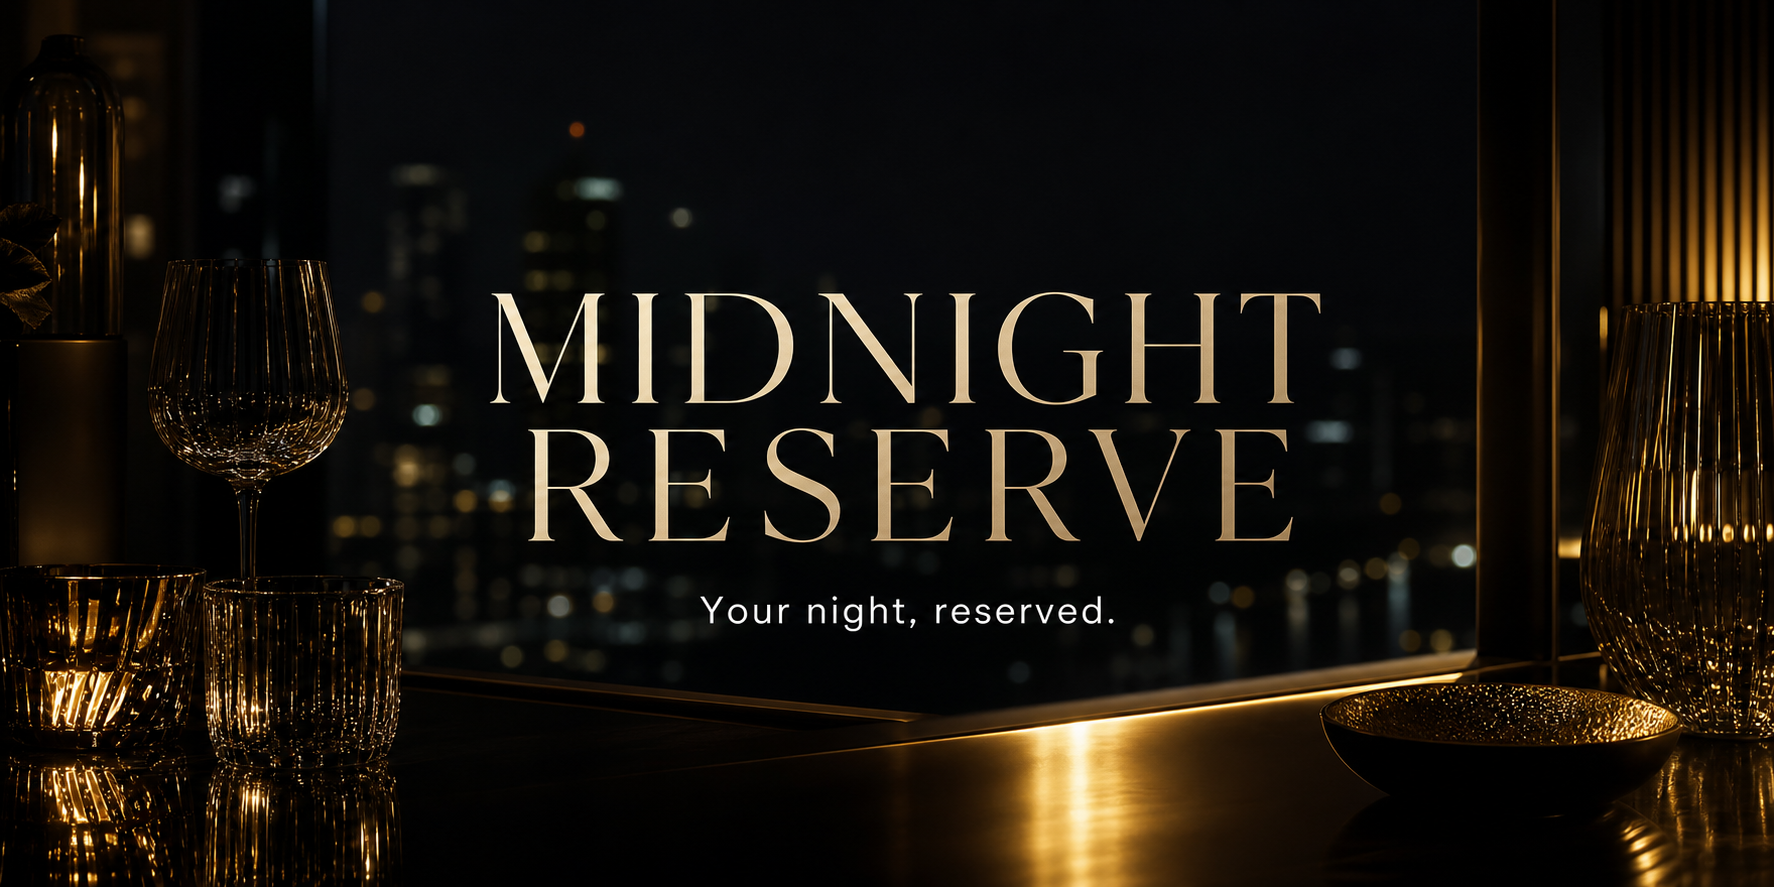
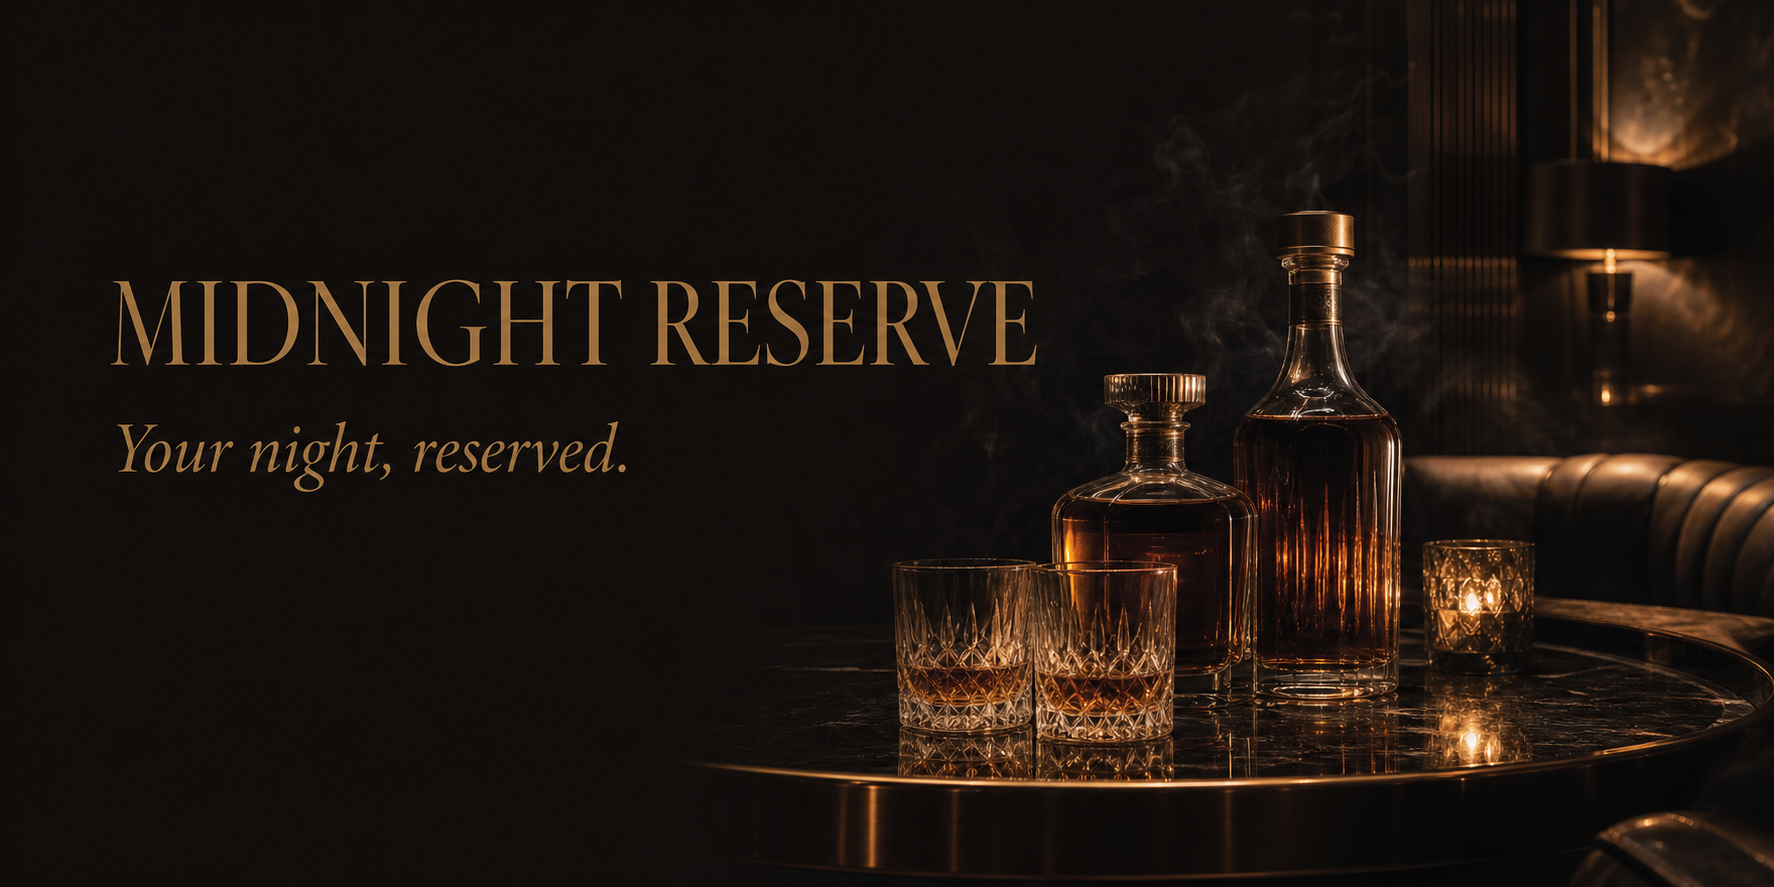
feat: refresh luxury guest experience

diff --git a/app/globals.css b/app/globals.css
@@ -156,3 +156,160 @@ input::placeholder, textarea::placeholder { color: #6f6b62; }
 @media (prefers-reduced-motion: reduce) {
   *, *::before, *::after { scroll-behavior: auto !important; transition-duration: .01ms !important; }
 }
+
+/* Midnight Reserve — cinematic guest experience */
+:root {
+  --ink: #f6f0e4;
+  --muted: #9c968d;
+  --gold: #c9a668;
+  --gold-soft: #e7c98e;
+  --night: #050606;
+  --panel: #0d0e0f;
+  --panel-2: #141516;
+  --line: rgba(220, 190, 132, .15);
+}
+
+body {
+  min-height: 100vh;
+  background:
+    radial-gradient(circle at 50% -8%, rgba(120, 84, 34, .22), transparent 30rem),
+    linear-gradient(180deg, #050606, #090a0a 48%, #050606);
+}
+
+body::before {
+  position: fixed;
+  inset: 0;
+  z-index: -1;
+  content: "";
+  pointer-events: none;
+  opacity: .22;
+  background-image: linear-gradient(rgba(255,255,255,.016) 1px, transparent 1px), linear-gradient(90deg, rgba(255,255,255,.012) 1px, transparent 1px);
+  background-size: 44px 44px;
+  mask-image: linear-gradient(to bottom, black, transparent 80%);
+}
+
+.site-header {
+  min-height: 78px;
+  border-bottom-color: rgba(201,166,104,.12);
+  background: rgba(5,6,6,.78);
+}
+
+.brand-button > span:last-child { display: grid; gap: .1rem; text-align: left; }
+.brand-button small { color: #706b62; font-size: .48rem; letter-spacing: .21em; }
+.brand-mark { width: 39px; height: 39px; border: 1px solid rgba(231,201,142,.55); color: var(--gold-soft); background: rgba(201,166,104,.08); font-size: .7rem; letter-spacing: .05em; box-shadow: inset 0 0 0 4px #080909; }
+.mode-nav { border-color: rgba(201,166,104,.16); background: rgba(19,20,20,.72); }
+.nav-pill { min-width: 82px; }
+.nav-pill.active { color: #080704; background: linear-gradient(135deg, #e4c78f, #a37a3d); box-shadow: 0 5px 20px rgba(164,121,57,.18); }
+
+.guest-page { width: min(100% - 2rem, 720px); padding-top: 1.6rem; padding-bottom: 8rem; }
+.guest-hero { position: relative; min-height: 450px; display: grid; place-content: center; overflow: hidden; padding: 4.5rem 1.25rem 3rem; }
+.guest-hero::before {
+  position: absolute;
+  inset: 0;
+  content: "";
+  background:
+    radial-gradient(ellipse at 50% 72%, rgba(232,193,115,.24), transparent 4%),
+    radial-gradient(ellipse at 50% 78%, rgba(112,74,31,.25), transparent 25%),
+    linear-gradient(90deg, transparent 0 19%, rgba(213,176,103,.08) 19.2% 19.5%, transparent 19.7% 80%, rgba(213,176,103,.07) 80.2% 80.5%, transparent 80.7%),
+    radial-gradient(circle at 50% 45%, rgba(115,82,34,.13), transparent 34%);
+  mask-image: linear-gradient(to bottom, transparent, black 12%, black 82%, transparent);
+}
+.guest-hero::after { position: absolute; left: 50%; bottom: 2.3rem; width: 240px; height: 1px; content: ""; transform: translateX(-50%); background: linear-gradient(90deg, transparent, rgba(201,166,104,.48), transparent); }
+.guest-hero > * { position: relative; z-index: 1; }
+.hero-orbit { display: grid; place-items: center; width: 96px; height: 96px; margin: 0 auto 2rem; border: 1px solid rgba(231,201,142,.34); border-radius: 50%; color: var(--gold-soft); font-family: Georgia, serif; letter-spacing: .16em; }
+.hero-orbit::before, .hero-orbit::after { position: absolute; content: ""; border: 1px solid rgba(201,166,104,.13); border-radius: 50%; }
+.hero-orbit::before { width: 124px; height: 124px; }
+.hero-orbit::after { width: 7px; height: 7px; top: -15px; background: var(--gold-soft); box-shadow: 0 0 18px rgba(231,201,142,.85); }
+.guest-hero h1 { margin: .8rem 0 1.1rem; font-size: clamp(3.7rem, 12vw, 6.8rem); line-height: .78; letter-spacing: -.055em; text-transform: uppercase; }
+.guest-hero h1 em { display: inline-block; margin-top: .25em; font-size: .83em; letter-spacing: .025em; }
+.hero-signature { display: block; margin: 0 auto .9rem; color: var(--gold-soft); font-family: Georgia, serif; font-size: 1.05rem; font-style: italic; letter-spacing: .04em; }
+.guest-hero > p:last-of-type { max-width: 31rem; font-size: .93rem; }
+.event-meta { display: flex; justify-content: center; align-items: center; gap: .85rem; margin-top: 1.25rem; color: #d7c7a8; font-size: .68rem; letter-spacing: .13em; text-transform: uppercase; }
+.event-meta i { width: 3px; height: 3px; border-radius: 50%; background: var(--gold); }
+.progress-track { width: min(92%, 560px); margin: 0 auto 1.2rem; gap: .55rem; }
+.progress-track span { height: 2px; border-radius: 3px; }
+
+.surface { border-color: rgba(201,166,104,.14); border-radius: 22px; background: linear-gradient(155deg, rgba(22,23,23,.96), rgba(8,9,9,.98)); box-shadow: 0 30px 90px rgba(0,0,0,.42); }
+.guest-card { padding: clamp(1.35rem, 5vw, 2.4rem); }
+.entry-card { position: relative; overflow: hidden; }
+.entry-card::before { position: absolute; top: 0; left: 16%; right: 16%; height: 1px; content: ""; background: linear-gradient(90deg, transparent, var(--gold-soft), transparent); }
+.section-title h2 { font-size: clamp(1.8rem, 5vw, 2.5rem); }
+.step-label { color: var(--gold-soft); letter-spacing: .18em; }
+label { color: #aaa398; font-size: .74rem; letter-spacing: .08em; text-transform: uppercase; }
+input, textarea { border-color: rgba(201,166,104,.14); border-radius: 12px; background: rgba(0,0,0,.32); text-transform: none; }
+input:focus, textarea:focus { border-color: rgba(231,201,142,.55); }
+.primary-button { min-height: 50px; border: 1px solid rgba(255,236,198,.24); border-radius: 12px; background: linear-gradient(135deg, #e3c48a, #a97e40); box-shadow: inset 0 1px rgba(255,255,255,.25), 0 12px 32px rgba(147,101,37,.18); letter-spacing: .045em; }
+.secondary-button { min-height: 48px; border-color: rgba(201,166,104,.19); border-radius: 12px; background: rgba(255,255,255,.035); }
+
+.menu-view { padding-inline: 0; }
+.menu-view > .section-title, .menu-view > .filter-pills, .menu-view > .text-button { margin-left: clamp(.35rem, 2vw, 1rem); margin-right: clamp(.35rem, 2vw, 1rem); }
+.filter-pills { display: flex; gap: .5rem; overflow-x: auto; margin-bottom: 1.2rem; scrollbar-width: none; }
+.filter-pills span { flex: 0 0 auto; padding: .6rem .8rem; border: 1px solid var(--line); border-radius: 999px; color: #8d877e; font-size: .7rem; }
+.filter-pills .active { color: #171109; border-color: var(--gold); background: var(--gold-soft); }
+.package-list { grid-template-columns: repeat(2, minmax(0, 1fr)); gap: 1rem; }
+.package-row { position: relative; display: block; min-height: 290px; overflow: hidden; padding: 0; border-radius: 21px; text-align: left; isolation: isolate; }
+.package-row:first-child { grid-column: 1 / -1; min-height: 330px; }
+.package-row:hover { border-color: rgba(231,201,142,.48); transform: translateY(-2px); }
+.package-visual { position: absolute; inset: 0; overflow: hidden; background: radial-gradient(circle at 50% 40%, rgba(191,135,60,.42), transparent 32%), linear-gradient(150deg, #25211a, #090a0a 62%); }
+.package-midnight-duo .package-visual { background: radial-gradient(circle at 60% 35%, rgba(84,99,125,.48), transparent 32%), linear-gradient(150deg, #171b22, #07090c 62%); }
+.package-solo-spark .package-visual { background: radial-gradient(circle at 42% 38%, rgba(146,91,68,.42), transparent 32%), linear-gradient(150deg, #241a17, #090909 62%); }
+.package-visual::after { position: absolute; inset: 0; content: ""; background: linear-gradient(to top, rgba(4,5,5,.99) 3%, rgba(4,5,5,.78) 34%, transparent 72%), linear-gradient(120deg, rgba(255,255,255,.05), transparent 28%); }
+.bottle { position: absolute; bottom: 72px; left: 50%; width: 50px; height: 128px; border: 1px solid rgba(248,218,157,.35); border-radius: 12px 12px 8px 8px; transform: translateX(-58%); background: linear-gradient(90deg, rgba(32,17,5,.65), rgba(190,121,39,.28) 48%, rgba(20,11,4,.8)); box-shadow: 0 20px 35px rgba(0,0,0,.55); }
+.bottle::before { position: absolute; top: -43px; left: 14px; width: 20px; height: 45px; content: ""; border: 1px solid rgba(248,218,157,.25); border-radius: 4px 4px 0 0; background: #16120d; }
+.bottle::after { position: absolute; top: 42px; left: 7px; right: 7px; height: 43px; content: ""; border: 1px solid rgba(245,212,148,.4); background: linear-gradient(145deg, #dbc28c, #6e5228); opacity: .72; }
+.bottle-two { width: 38px; height: 102px; left: 62%; bottom: 68px; opacity: .68; transform: rotate(7deg); }
+.package-row:not(:first-child) .bottle { transform: translateX(-62%) scale(.82); transform-origin: bottom; }
+.package-row:not(:first-child) .bottle-two { transform: rotate(8deg) scale(.8); }
+.package-monogram { position: absolute; top: 1rem; left: 1rem; z-index: 2; display: grid; place-items: center; width: 38px; height: 38px; border: 1px solid rgba(231,201,142,.38); border-radius: 50%; color: var(--gold-soft); background: rgba(4,5,5,.55); font-family: Georgia, serif; font-size: .72rem; backdrop-filter: blur(8px); }
+.package-overlay { position: absolute; inset: auto 0 0; z-index: 3; display: flex; justify-content: space-between; align-items: end; gap: 1rem; padding: 1.2rem; }
+.package-copy { gap: .25rem; }
+.package-copy small { color: var(--gold); font-size: .58rem; letter-spacing: .14em; text-transform: uppercase; }
+.package-copy strong { color: #fff9ee; font-size: 1.45rem; }
+.package-copy span { max-width: 270px; font-size: .75rem; }
+.package-price { flex: 0 0 auto; }
+.package-price strong { color: #f8e3ba; }
+.stock { color: #a9d69d; background: rgba(58,113,57,.2); text-transform: uppercase; letter-spacing: .06em; }
+.stock.low { color: #f1d28f; background: rgba(157,111,40,.2); }
+
+.selected-package-banner { position: relative; display: flex; align-items: center; gap: .9rem; overflow: hidden; min-height: 92px; margin: -1rem -1rem 1.5rem; padding: 1rem 1.1rem 1rem 4.7rem; border: 1px solid rgba(201,166,104,.16); border-radius: 17px; background: radial-gradient(circle at 16% 20%, rgba(195,137,62,.35), transparent 28%), #0a0b0b; }
+.selected-package-banner .package-monogram { top: 50%; transform: translateY(-50%); }
+.selected-package-banner div { display: grid; gap: .15rem; }
+.selected-package-banner small { color: var(--gold); font-size: .6rem; letter-spacing: .13em; text-transform: uppercase; }
+.selected-package-banner strong { font-family: Georgia, serif; font-size: 1.2rem; font-weight: 400; }
+.selected-package-banner b { margin-left: auto; color: var(--gold-soft); }
+.network { border-color: rgba(201,166,104,.15); background: rgba(255,255,255,.02); }
+.network.active { color: #171109; background: var(--gold-soft); }
+.status-icon { width: 78px; height: 78px; color: var(--gold-soft); font-size: 1.5rem; box-shadow: 0 0 45px rgba(201,166,104,.11); }
+
+.mobile-dock { position: fixed; left: 50%; bottom: max(1rem, env(safe-area-inset-bottom)); z-index: 25; display: none; width: min(calc(100% - 2rem), 500px); padding: .4rem; border: 1px solid rgba(231,201,142,.19); border-radius: 24px; transform: translateX(-50%); background: rgba(10,11,11,.86); box-shadow: 0 18px 50px rgba(0,0,0,.55); backdrop-filter: blur(22px); }
+.mobile-dock button { flex: 1; display: grid; place-items: center; gap: .2rem; min-height: 54px; border: 0; border-radius: 18px; color: #77736c; background: transparent; font-size: .58rem; letter-spacing: .06em; cursor: pointer; }
+.mobile-dock button span { font-size: 1.05rem; }
+.mobile-dock button.active { color: #171109; background: linear-gradient(135deg, #e6ca94, #ae8244); }
+
+.organizer-page .surface { box-shadow: 0 24px 70px rgba(0,0,0,.28); }
+.admin-tabs button.active { color: #171109; background: var(--gold-soft); }
+
+@media (max-width: 700px) {
+  .site-header { min-height: 66px; padding-inline: .8rem; }
+  .brand-button > span:last-child { display: none; }
+  .mode-nav { transform: scale(.9); transform-origin: right center; }
+  .guest-page { width: min(100% - 1.1rem, 720px); padding-top: 0; }
+  .guest-hero { min-height: 410px; padding-top: 3.2rem; }
+  .hero-orbit { width: 78px; height: 78px; margin-bottom: 1.5rem; }
+  .hero-orbit::before { width: 102px; height: 102px; }
+  .guest-hero h1 { font-size: clamp(3.35rem, 17vw, 5.2rem); }
+  .package-list { grid-template-columns: 1fr; }
+  .package-row, .package-row:first-child { grid-column: auto; min-height: 300px; }
+  .package-price { grid-column: auto; display: grid; grid-template-columns: 1fr; justify-items: end; }
+  .mobile-dock { display: flex; }
+}
+
+@media (max-width: 390px) {
+  .nav-pill { min-width: 70px; padding-inline: .65rem; }
+  .guest-hero { min-height: 385px; }
+  .guest-hero h1 { font-size: 3.25rem; }
+  .event-meta { gap: .55rem; letter-spacing: .07em; }
+  .guest-card { padding: 1.15rem; }
+  .package-overlay { padding: 1rem; }
+  .package-copy span { max-width: 190px; }
+}

diff --git a/app/party-app.tsx b/app/party-app.tsx
@@ -200,8 +200,8 @@ export function PartyApp() {
     <main className="app-shell">
       <header className="site-header">
         <button className="brand-button" onClick={() => { setMode("guest"); setGuestStep("details"); }}>
-          <span className="brand-mark">M</span>
-          <span>{data.event.name}</span>
+          <span className="brand-mark">MR</span>
+          <span><small>Private experience</small>{data.event.name}</span>
         </button>
         <nav className="mode-nav" aria-label="Preview area">
           <button className={mode === "guest" ? "nav-pill active" : "nav-pill"} onClick={() => setMode("guest")}>Guest</button>
@@ -212,17 +212,20 @@ export function PartyApp() {
       {mode === "guest" ? (
         <section className="guest-page">
           <div className="guest-hero">
-            <p className="kicker">{data.event.date} · {data.event.location}</p>
-            <h1>Your night,<br /><em>reserved.</em></h1>
+            <div className="hero-orbit" aria-hidden="true"><span>MR</span></div>
+            <p className="kicker">Invitation access · {data.event.location}</p>
+            <h1>Midnight<br /><em>Reserve</em></h1>
+            <span className="hero-signature">Your night, reserved.</span>
             <p>{data.event.message}</p>
+            <div className="event-meta"><span>{data.event.date}</span><i /> <span>{data.event.location}</span></div>
           </div>
           <div className="progress-track" aria-label={`Step ${progress + 1} of 4`}>
             {stepOrder.map((step, index) => <span key={step} className={index <= progress ? "complete" : ""} />)}
           </div>
 
           {guestStep === "details" && (
-            <form className="surface guest-card" onSubmit={beginGuest}>
-              <div className="section-title"><div><span className="step-label">Step 1 of 4</span><h2>Let’s start with you</h2><p>We use these details to match your payment.</p></div></div>
+            <form className="surface guest-card entry-card" onSubmit={beginGuest}>
+              <div className="section-title"><div><span className="step-label">Welcome, VIP guest</span><h2>Your reservation starts here</h2><p>Enter the name and number we should use to match your Mobile Money payment.</p></div></div>
               <label>Full name<input value={guestName} onChange={(event) => setGuestName(event.target.value)} required /></label>
               <label>Phone number<input value={guestPhone} onChange={(event) => { setGuestPhone(event.target.value); setPhoneConfirmed(false); }} inputMode="tel" required /></label>
               <label className="check-row"><input type="checkbox" checked={phoneConfirmed} onChange={(event) => setPhoneConfirmed(event.target.checked)} /><span>Yes, this number is correct</span></label>
@@ -231,14 +234,17 @@ export function PartyApp() {
           )}
 
           {guestStep === "packages" && (
-            <div className="guest-card">
+            <div className="guest-card menu-view">
               <div className="section-title split"><div><span className="step-label">Step 2 of 4</span><h2>Choose your package</h2><p>Your selection will be held for 30 minutes.</p></div><span className="timer">30:00</span></div>
+              <div className="filter-pills" aria-label="Package filters"><span className="active">All packages</span><span>Best sellers</span><span>Limited</span></div>
               <div className="package-list">
                 {data.packages.filter((pkg) => pkg.active).map((pkg) => (
-                  <button className="surface package-row" key={pkg.id} onClick={() => choosePackage(pkg)} disabled={remaining(pkg) === 0}>
-                    <span className="package-art">{pkg.initials}</span>
-                    <span className="package-copy"><strong>{pkg.name}</strong><span>{pkg.description}</span></span>
-                    <span className="package-price"><strong>{money(pkg.price)}</strong><span className={remaining(pkg) <= 3 ? "stock low" : "stock"}>{remaining(pkg) ? `${remaining(pkg)} left` : "Sold out"}</span></span>
+                  <button className={`surface package-row package-${pkg.id}`} key={pkg.id} onClick={() => choosePackage(pkg)} disabled={remaining(pkg) === 0}>
+                    <span className="package-visual" aria-hidden="true"><span className="bottle bottle-one" /><span className="bottle bottle-two" /><span className="package-monogram">{pkg.initials}</span></span>
+                    <span className="package-overlay">
+                      <span className="package-copy"><small>Drinks experience</small><strong>{pkg.name}</strong><span>{pkg.description}</span></span>
+                      <span className="package-price"><strong>{money(pkg.price)}</strong><span className={remaining(pkg) <= 3 ? "stock low" : "stock"}>{remaining(pkg) ? `${remaining(pkg)} left` : "Sold out"}</span></span>
+                    </span>
                   </button>
                 ))}
               </div>
@@ -247,7 +253,8 @@ export function PartyApp() {
           )}
 
           {guestStep === "payment" && selectedPackage && (
-            <form className="surface guest-card" onSubmit={submitPayment}>
+            <form className="surface guest-card payment-card" onSubmit={submitPayment}>
+              <div className={`selected-package-banner package-${selectedPackage.id}`}><span className="package-monogram">{selectedPackage.initials}</span><div><small>Your selection</small><strong>{selectedPackage.name}</strong></div><b>{money(selectedPackage.price)}</b></div>
               <div className="section-title split"><div><span className="step-label">Step 3 of 4</span><h2>Pay with Mobile Money</h2><p>Send the exact amount, then submit your transaction.</p></div><span className="timer">29:42</span></div>
               <div className="network-tabs">
                 {data.paymentDestinations.filter((item) => item.enabled).map((item) => <button type="button" key={item.network} className={network === item.network ? "network active" : "network"} onClick={() => setNetwork(item.network)}>{item.network}</button>)}
@@ -272,6 +279,12 @@ export function PartyApp() {
               <div className="status-actions"><button className="primary-button" onClick={() => { setMode("organizer"); setSignedIn(true); setAdminTab("orders"); setSelectedOrderId(currentOrder.id); }}>Preview organizer check</button><button className="secondary-button">WhatsApp organizer</button></div>
             </div>
           )}
+          <nav className="mobile-dock" aria-label="Guest navigation">
+            <button className={guestStep === "details" ? "active" : ""} onClick={() => setGuestStep("details")}><span>⌂</span>Home</button>
+            <button className={guestStep === "packages" ? "active" : ""} onClick={() => setGuestStep("packages")}><span>◇</span>Packages</button>
+            <button className={guestStep === "payment" ? "active" : ""} onClick={() => selectedPackage && setGuestStep("payment")}><span>✦</span>Reserve</button>
+            <button className={guestStep === "status" ? "active" : ""} onClick={() => currentOrder && setGuestStep("status")}><span>○</span>Status</button>
+          </nav>
         </section>
       ) : (
         <section className="organizer-page">

diff --git a/app/layout.tsx b/app/layout.tsx
@@ -8,14 +8,14 @@ export async function generateMetadata(): Promise<Metadata> {
   const protocol = requestHeaders.get("x-forwarded-proto") ?? (host.includes("localhost") ? "http" : "https");
   const origin = `${protocol}://${host}`;
   const title = "Midnight Reserve";
-  const description = "Mobile-first party drinks reservations with manual Mobile Money verification.";
+  const description = "Reserve a premium drinks package for Midnight Reserve and submit your Mobile Money payment details securely.";
   return {
     metadataBase: new URL(origin),
     title,
     description,
     manifest: "/manifest.webmanifest",
     icons: { icon: "/favicon.svg", shortcut: "/favicon.svg" },
-    openGraph: { title, description, images: [{ url: `${origin}/og.png`, width: 1792, height: 896, alt: "Midnight Reserve — Your night, reserved." }] },
+    openGraph: { title, description, images: [{ url: `${origin}/og.png`, width: 1774, height: 887, alt: "Midnight Reserve — Your night, reserved." }] },
     twitter: { card: "summary_large_image", title, description, images: [`${origin}/og.png`] },
   };
 }
